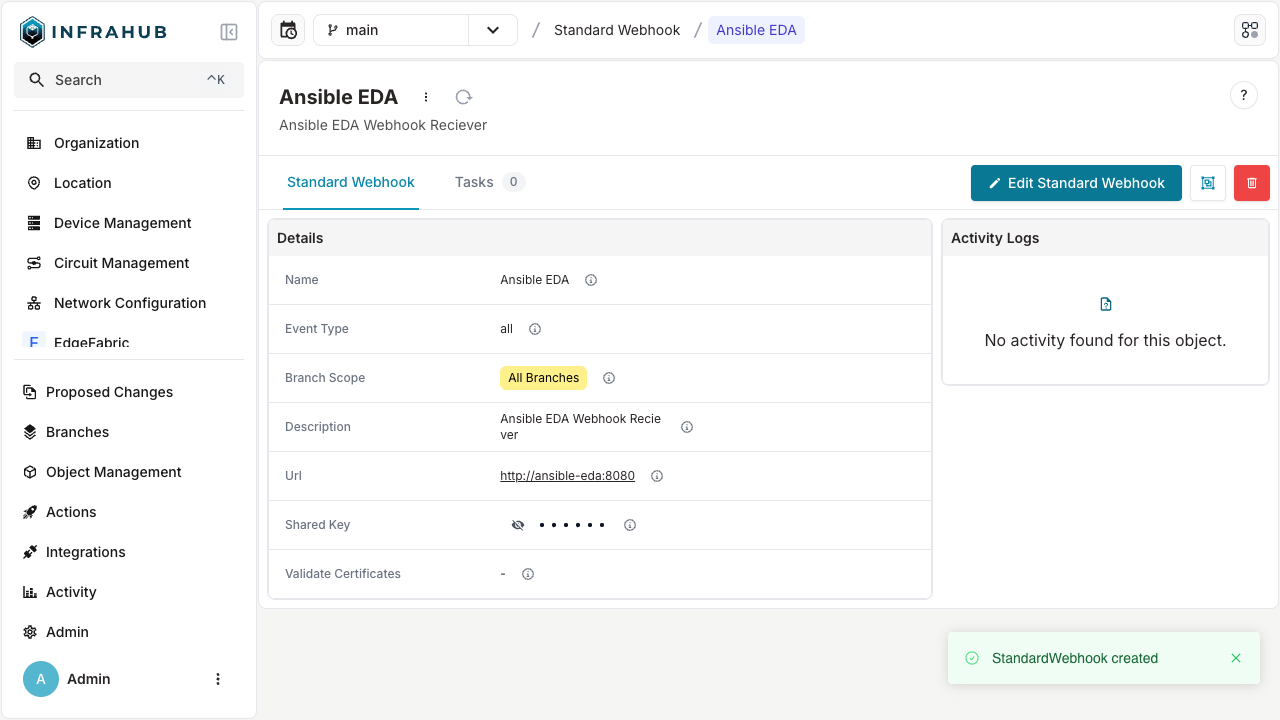
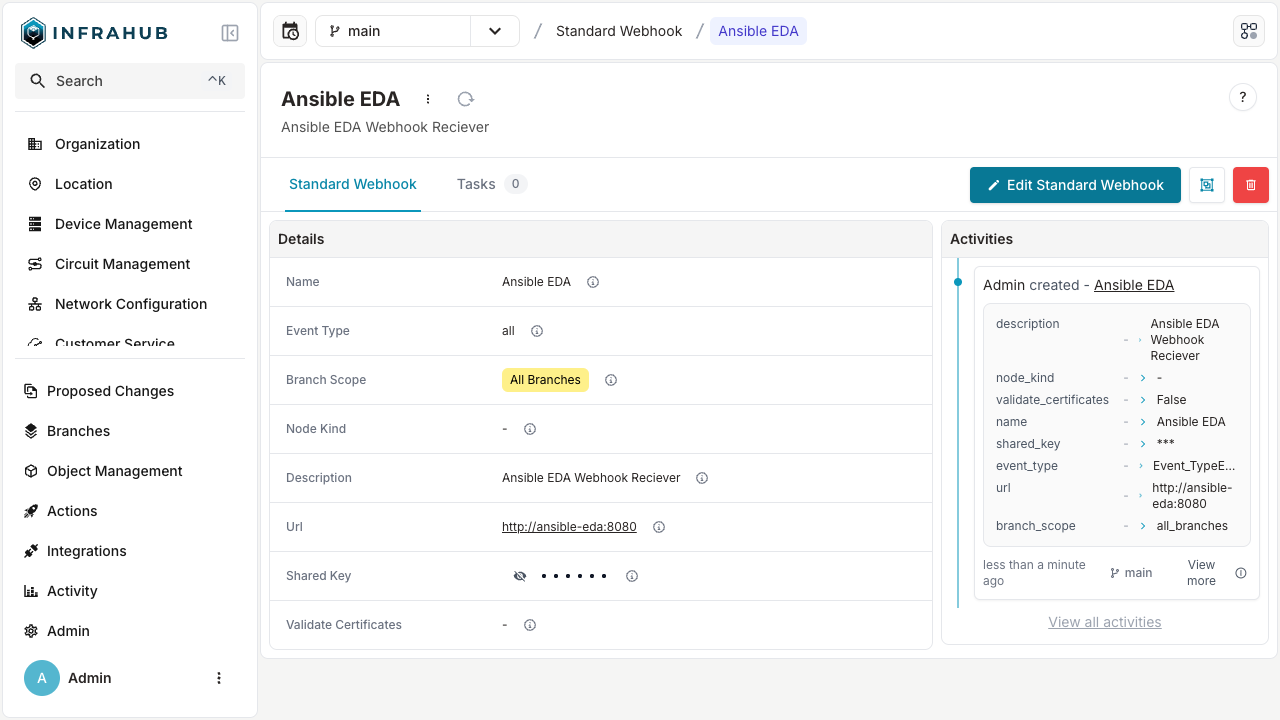
update screenshots

diff --git a/frontend/app/tests/e2e/webhook/webhook.spec.ts b/frontend/app/tests/e2e/webhook/webhook.spec.ts
@@ -47,12 +47,15 @@ test.describe("/objects/CoreWebhook", () => {
       });
 
       await test.step("webhook detail view", async () => {
+        // Give time for activity log to be propagated.
+        await page.waitForTimeout(10000);
         await page
           .getByTestId("identifier-cell")
           .getByRole("link", { name: "Ansible EDA", exact: true })
           .click();
 
         await expect(page.getByText("NameAnsible EDA")).toBeVisible();
+        await expect(page.getByText("View all activities")).toBeVisible();
         await saveScreenshotForDocs(page, "webhook_detail");
       });
     });
